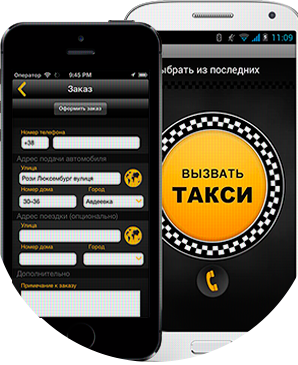
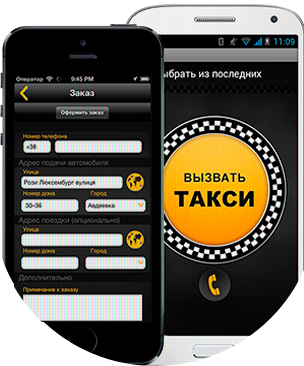
Fixed bag with bg

diff --git a/css/style.css b/css/style.css
@@ -871,7 +871,7 @@ header {
     margin: 0 70px 70px 0;
     position: relative;
     text-align: center;
-    width: 326px;
+    width: 325px;
     background: url(../i/markup/bg-portfolio-works.png) center center no-repeat;
     height: 415px;
     padding: 0 0 10px 0;
@@ -882,10 +882,13 @@ header {
 .portfolio-list__item img {
     display: block;
     margin: 0 auto;
+    padding: 12px 0 0 0;
+    width: 296px;
+    height: 358px;
 }
 .portfolio-list__item strong {
     display: block;
-    margin: 20px 0 0 0;
+    margin: 50px 0 0 0;
     padding: 5px 0;
     text-transform: uppercase;
     background: url(../i/markup/bg-goals-header.png) center 6px no-repeat;

diff --git a/portfolio.html b/portfolio.html
@@ -84,13 +84,13 @@
 			<ul class="portfolio-list clearfix">
 				<li class="portfolio-list__item">
 					<a href="#" class="portfolio-list__link">
-						<img src="i/img-20.png" alt="portfolio_chosen">
+						<img src="i/img-21.png" alt="portfolio_chosen">
 						<strong><span>Night2Day</strong></span>
 					</a>
 				</li>
 				<li class="portfolio-list__item">
 					<a href="#" class="portfolio-list__link">
-						<img src="i/img-21.png" alt="portfolio_chosen">
+						<img src="i/img-20.png" alt="portfolio_chosen">
 						<strong><span>ROLL.LG.UA</strong></span>
 					</a>
 				</li>
